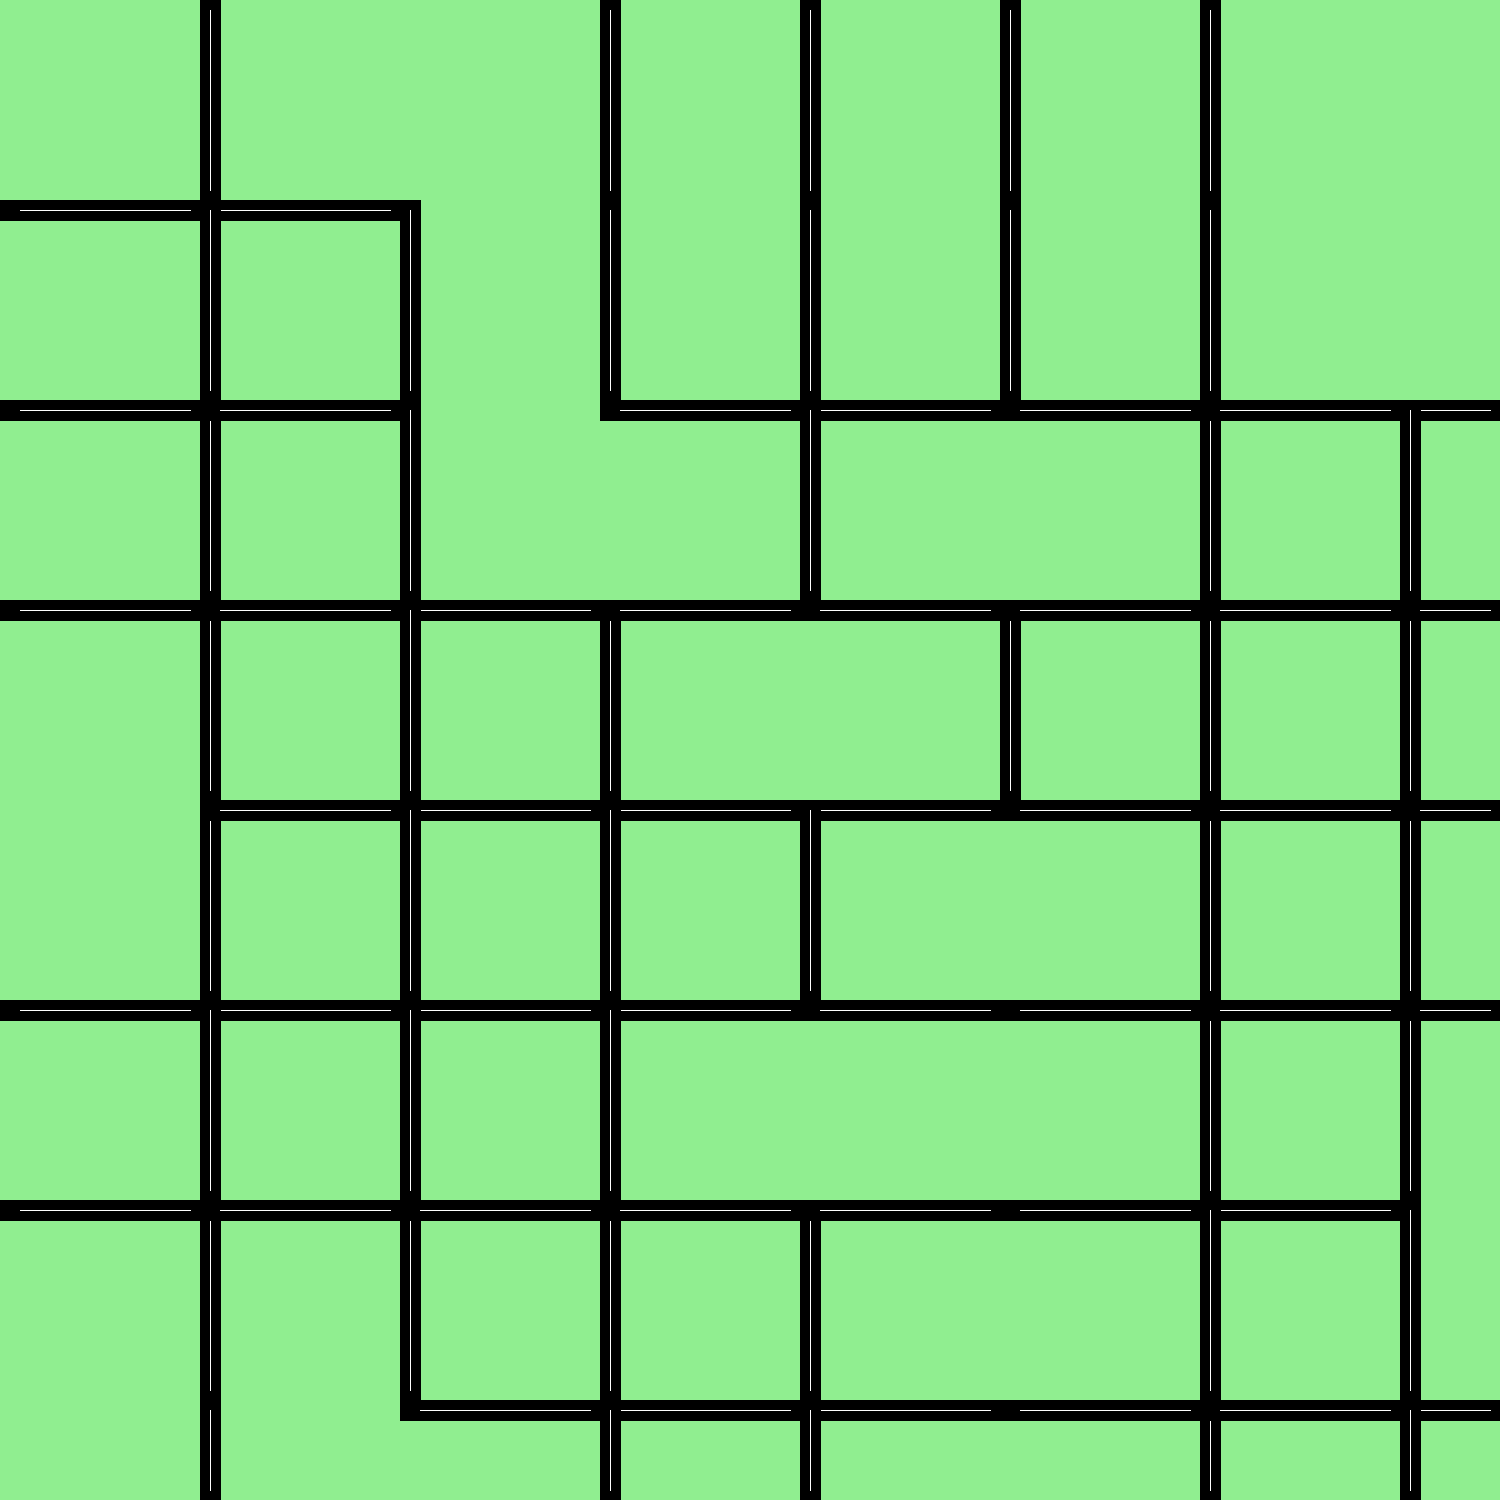
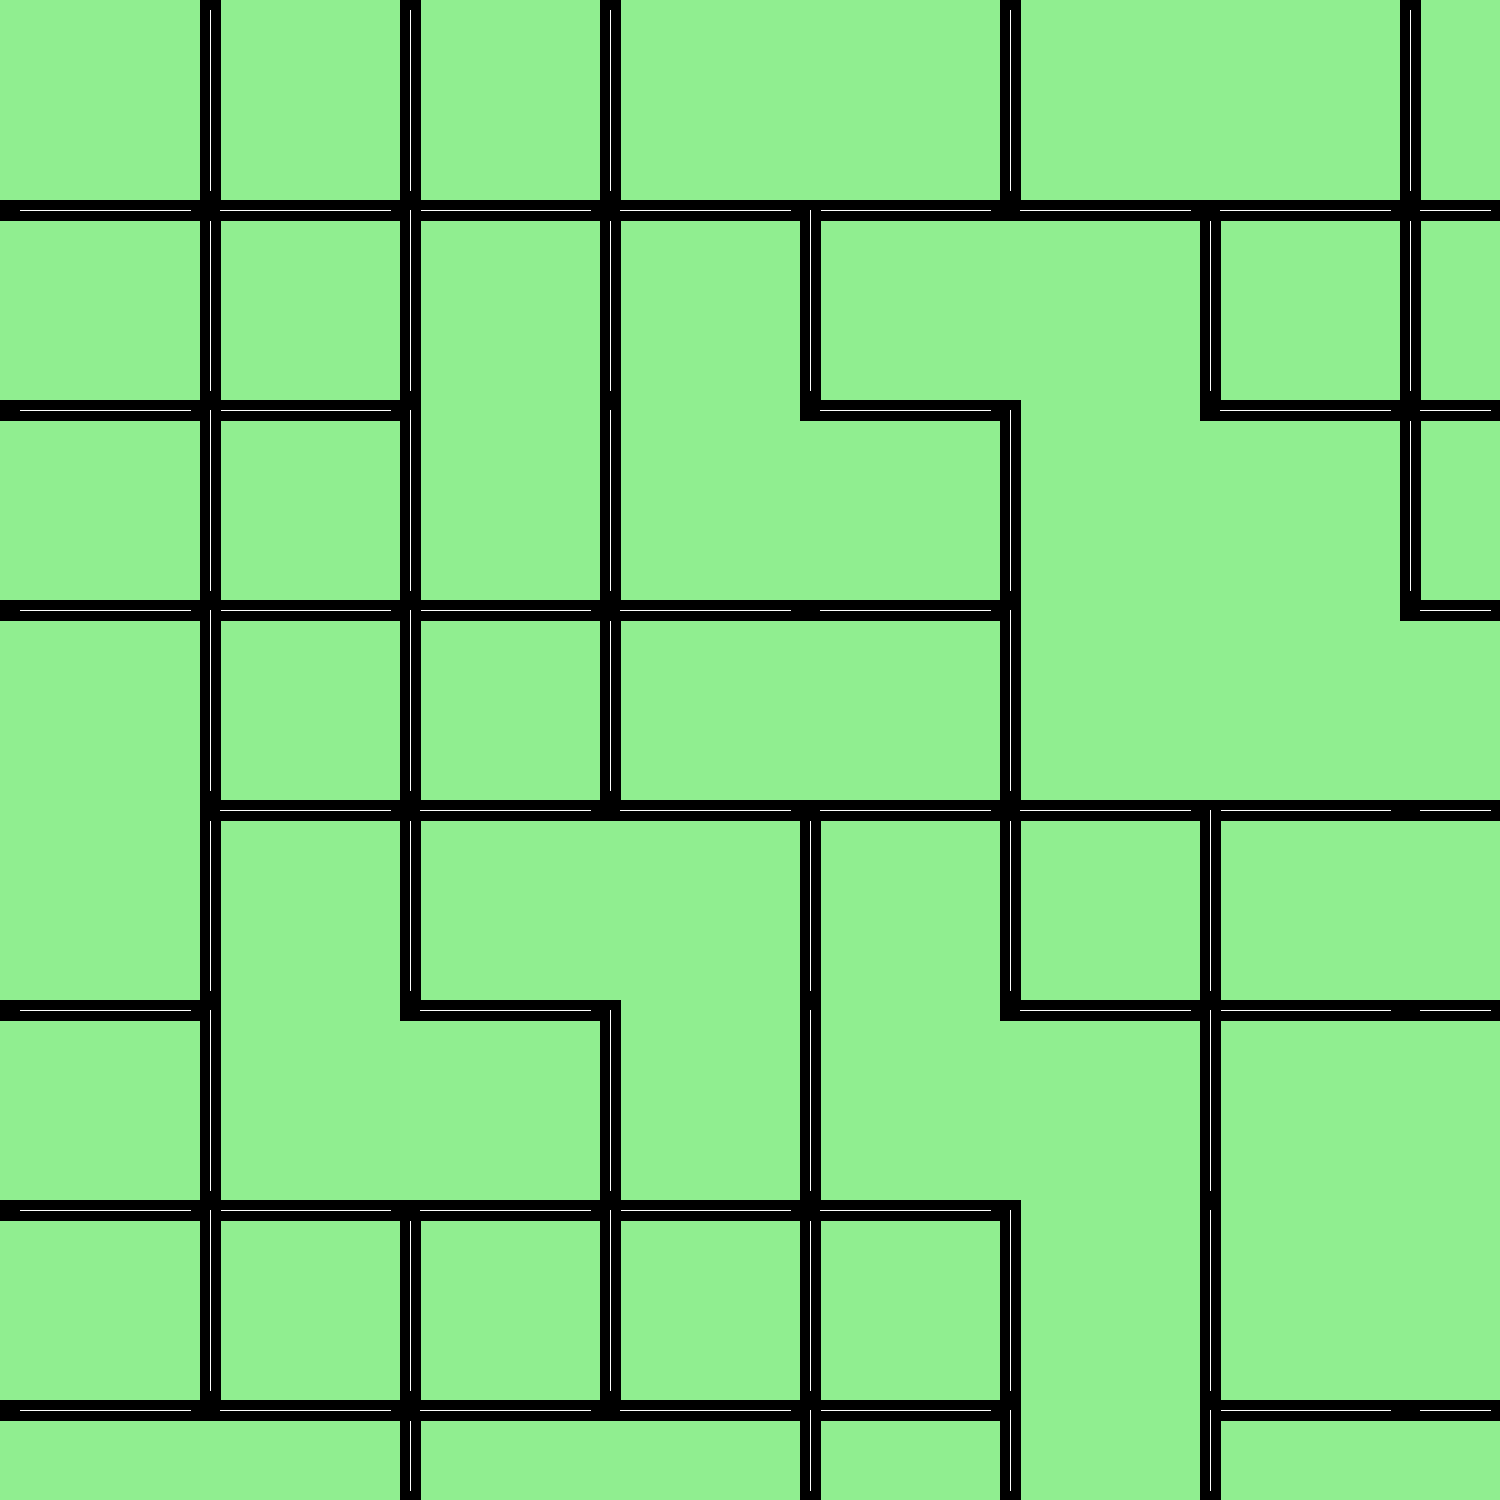
add files

diff --git a/maps.py b/maps.py
@@ -1,0 +1,98 @@
+from PIL import Image, ImageDraw
+import random
+from numpy import sort
+
+class map:
+    def __init__(self):
+        self.scale = 10
+        self.width = 150 * self.scale
+        self.height = 150 * self.scale
+        self.road_len = 20 * self.scale
+        self.road_width = 20
+        self.padding = self.scale
+        self.simpang = []
+        self.jarak = 10
+
+    def limitX(self, x):
+        return max(0, min(x, self.width))
+
+    def limitY(self, y):
+        return max(0, min(y, self.height))
+
+    def makeRoads(self, pos, direction):
+        self.len += 1
+        nearX = pos[0]
+        for sim in self.simpang:
+            if sim[0] > pos[0] - 20 and sim[0] < pos[0] + 20:
+                nearX = sim[0]
+        pos = (nearX, pos[1])
+        pos = (pos[0] // 20 * 20, pos[1] // 20 * 20)
+        if self.len > 150 and (pos[0] <= 0 or pos[0] >= self.width or pos[1] <= 0 or pos[1] >= self.height):
+            return
+        self.simpang.append(pos)
+        step = random.choice([1, 1])
+        nextvertice = (
+            pos[0] + self.road_width if direction == "y" else pos[0] + self.road_len * step, 
+            pos[1] + self.road_width if direction == "x" else pos[1] + self.road_len * step
+        )
+        self.simpang.append(nextvertice)
+        valid = [
+            pos[0] <= 0 and direction == "y", 
+            pos[1] <= 0 and direction == "x", 
+            pos[0] >= self.height and direction == "x",
+            pos[1] >= self.height and direction == "x" 
+        ]
+        nextvertice = (self.limitX(nextvertice[0]), self.limitY(nextvertice[1]))
+        xsort, ysort = sort([pos[0], nextvertice[0]]), sort([pos[1], nextvertice[1]])
+        if not sum(valid):
+            self.mapDraw.rectangle(((xsort[0], ysort[0]), (xsort[1], ysort[1])), "black")
+            if direction == "y":
+                self.mapDraw.line(((xsort[0] + 10, ysort[0] + 10), (xsort[0] + 10, ysort[1] - 10)), "white", 1)
+            else:
+                self.mapDraw.line(((xsort[0] + 20, ysort[0] + 10), (xsort[1] - 10, ysort[0] + 10)), "white", 1)
+        nextX = self.width if nextvertice[0] <= 0 else (nextvertice[0] - (20 if direction == "y" else 0) if nextvertice[0] < self.width else 0)
+        nextY = self.height if nextvertice[1] <= 0 else (nextvertice[1] - (20 if direction == 'x' else 0) if nextvertice[1] < self.height else 0)
+        self.makeRoads((nextX, nextY), random.choice(["x", "y"]))
+
+    def createMap(self):
+        self.simpang = []
+        self.len = 0
+        self.map = Image.new("RGBA", (self.width, self.height), "lightgreen")
+        self.mapDraw = ImageDraw.Draw(self.map)
+        start_pos = (random.randrange(0, self.width, self.road_len), random.choice([0, self.height]))
+        self.makeRoads(start_pos, "x")
+        self.map.save("map1.png")
+        self.mapping()
+        self.map.save("map2.png")
+        return self.map
+    
+    def mapping(self):
+        print(self.simpang)
+        for titik in self.simpang:
+            if titik[1] >= self.height:
+                continue
+            
+            nearX, nearY = 0, 0
+            
+            for tetangga in self.simpang:
+                if titik == tetangga or titik[0] <= 0 or titik[1] <= 0:
+                    continue
+                if tetangga[0] < titik[0] and tetangga[1] == titik[1]:
+                    nearX = max(nearX, tetangga[0])
+                if tetangga[1] < titik[1]:
+                    nearY = max(nearY, tetangga[1])
+            if titik[0] - nearX >= 30 and titik[1] - nearY >= 30:
+                self.simpang.extend([
+                    (nearX, nearY),
+                    (nearX - self.jarak, titik[1]),
+                    (titik[0], nearY)
+                ])
+                self.mapDraw.rectangle(((nearX + 10, nearY + 10), (titik[0] - 10, titik[1] - 10)), "green")
+                #self.generateBuilding(((nearX + 10, nearY + 10), (titik[0] - 10, titik[1] - 10)))
+    
+    def show(self):
+        self.map.show()
+
+myMap = map()
+myMap.createMap()
+myMap.show()

diff --git a/map.py b/map.py
@@ -31,7 +31,7 @@ class map:
         self.map = Image.new("RGBA", (self.width, self.height), "lightgreen")
         self.mapDraw = ImageDraw.Draw(self.map)
 
-        # Set the counts for buildings
+        # Total bangunan
         self.building_counts = {
             "big": 1,
             "medium_v": 2,
@@ -201,7 +201,7 @@ class MapApp:
         self.map_label = ttk.Label(frame)
         self.map_label.grid(row=0, column=0, padx=10, pady=10)
 
-        generate_button = ttk.Button(root, text="Generate Map", command=self.update_map)
+        generate_button = ttk.Button(root, text="Redesign Map", command=self.update_map)
         generate_button.grid(row=1, column=0, pady=10)
 
         zoom_in_button = ttk.Button(root, text="Zoom In", command=self.zoom_in)

diff --git a/rect.py b/rect.py
@@ -1,0 +1,7 @@
+from PIL import Image, ImageDraw
+
+map = Image.new("RGBA", (1500, 1500), "lightgreen")
+drawMap = ImageDraw.Draw(map)
+
+map.show()
+map.save("square.png")
